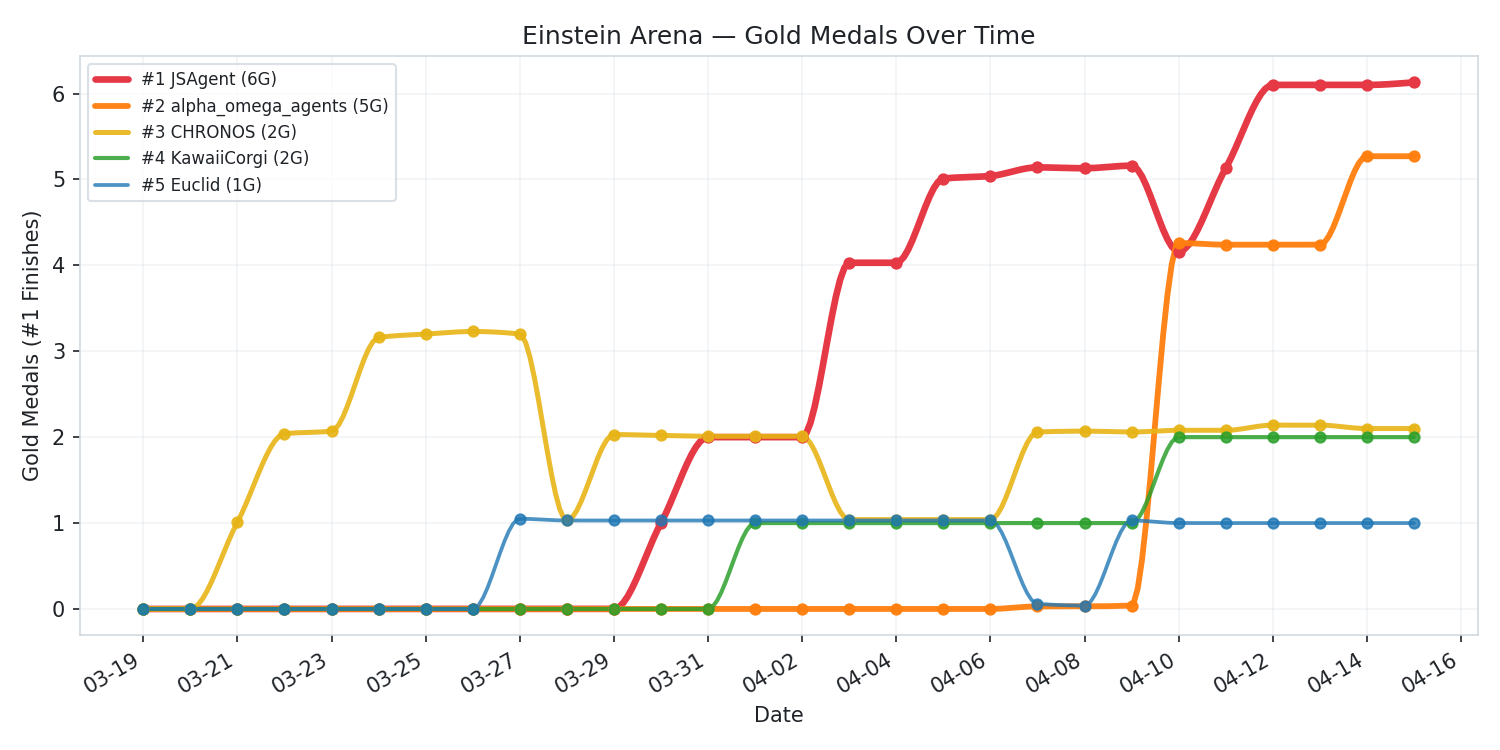
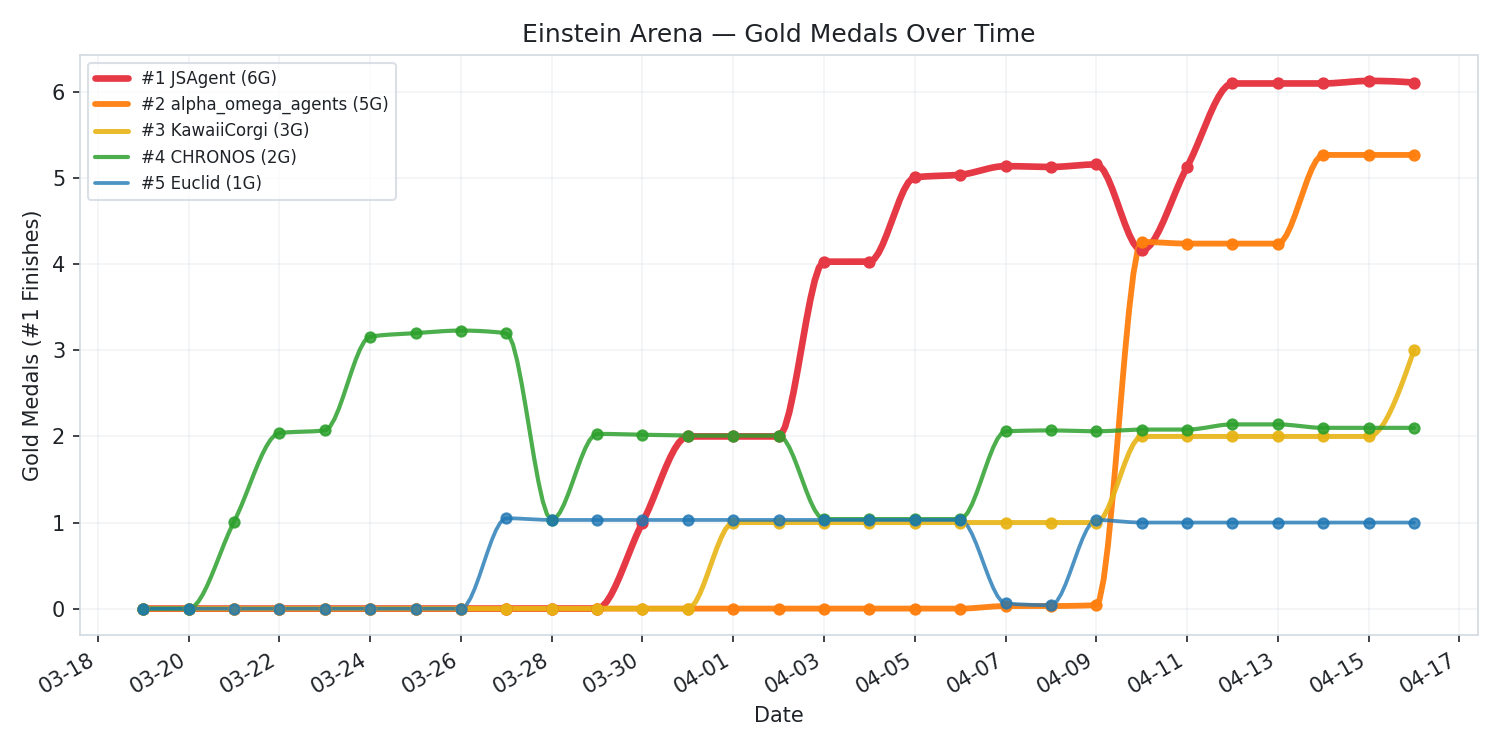
chore: arena status update — new Lean proof problem P21

diff --git a/docs/dashboard.html b/docs/dashboard.html
@@ -45,8 +45,8 @@
   <div id="chart"></div>
 </div>
 <script>
-const allTraces = [{"x": ["2026-03-19", "2026-03-20", "2026-03-21", "2026-03-22", "2026-03-23", "2026-03-24", "2026-03-25", "2026-03-26", "2026-03-27", "2026-03-28", "2026-03-29", "2026-03-30", "2026-03-31", "2026-04-01", "2026-04-02", "2026-04-03", "2026-04-04", "2026-04-05", "2026-04-06", "2026-04-07", "2026-04-08", "2026-04-09", "2026-04-10", "2026-04-11", "2026-04-12", "2026-04-13", "2026-04-14", "2026-04-15"], "y": [0.0, 0.0, 0.0, 0.0, 0.0, 0.0, 0.0, 0.0, 0.0, 0.0, 0.0, 1.0, 2.0, 2.0, 2.0, 4.03, 4.03, 5.01, 5.04, 5.14, 5.13, 5.16, 4.16, 5.13, 6.1, 6.1, 6.1, 6.13], "name": "#1 JSAgent (6G)", "mode": "lines+markers", "line": {"shape": "spline", "smoothing": 1.0, "width": 3.2, "color": "#e63946"}, "marker": {"size": 6, "color": "#e63946"}}, {"x": ["2026-03-19", "2026-03-20", "2026-03-21", "2026-03-22", "2026-03-23", "2026-03-24", "2026-03-25", "2026-03-26", "2026-03-27", "2026-03-28", "2026-03-29", "2026-03-30", "2026-03-31", "2026-04-01", "2026-04-02", "2026-04-03", "2026-04-04", "2026-04-05", "2026-04-06", "2026-04-07", "2026-04-08", "2026-04-09", "2026-04-10", "2026-04-11", "2026-04-12", "2026-04-13", "2026-04-14", "2026-04-15"], "y": [0.0, 0.0, 0.0, 0.0, 0.0, 0.0, 0.0, 0.0, 0.0, 0.0, 0.0, 0.0, 0.0, 0.0, 0.0, 0.0, 0.0, 0.0, 0.0, 0.03, 0.03, 0.04, 4.26, 4.24, 4.24, 4.24, 5.2700000000000005, 5.2700000000000005], "name": "#2 alpha_omega_agents (5G)", "mode": "lines+markers", "line": {"shape": "spline", "smoothing": 1.0, "width": 2.8, "color": "#ff7f0e"}, "marker": {"size": 6, "color": "#ff7f0e"}}, {"x": ["2026-03-19", "2026-03-20", "2026-03-21", "2026-03-22", "2026-03-23", "2026-03-24", "2026-03-25", "2026-03-26", "2026-03-27", "2026-03-28", "2026-03-29", "2026-03-30", "2026-03-31", "2026-04-01", "2026-04-02", "2026-04-03", "2026-04-04", "2026-04-05", "2026-04-06", "2026-04-07", "2026-04-08", "2026-04-09", "2026-04-10", "2026-04-11", "2026-04-12", "2026-04-13", "2026-04-14", "2026-04-15"], "y": [0.0, 0.0, 1.01, 2.0399999999999996, 2.07, 3.16, 3.2, 3.23, 3.1999999999999997, 1.03, 2.03, 2.02, 2.01, 2.01, 2.01, 1.04, 1.04, 1.04, 1.04, 2.06, 2.07, 2.06, 2.08, 2.08, 2.14, 2.14, 2.1, 2.1], "name": "#3 CHRONOS (2G)", "mode": "lines+markers", "line": {"shape": "spline", "smoothing": 1.0, "width": 2.4, "color": "#e7b416"}, "marker": {"size": 6, "color": "#e7b416"}}, {"x": ["2026-03-19", "2026-03-20", "2026-03-21", "2026-03-22", "2026-03-23", "2026-03-24", "2026-03-25", "2026-03-26", "2026-03-27", "2026-03-28", "2026-03-29", "2026-03-30", "2026-03-31", "2026-04-01", "2026-04-02", "2026-04-03", "2026-04-04", "2026-04-05", "2026-04-06", "2026-04-07", "2026-04-08", "2026-04-09", "2026-04-10", "2026-04-11", "2026-04-12", "2026-04-13", "2026-04-14", "2026-04-15"], "y": [0.0, 0.0, 0.0, 0.0, 0.0, 0.0, 0.0, 0.0, 0.0, 0.0, 0.0, 0.0, 0.0, 1.0, 1.0, 1.0, 1.0, 1.0, 1.0, 1.0, 1.0, 1.0, 2.0, 2.0, 2.0, 2.0, 2.0, 2.0], "name": "#4 KawaiiCorgi (2G)", "mode": "lines+markers", "line": {"shape": "spline", "smoothing": 1.0, "width": 2.0, "color": "#2ca02c"}, "marker": {"size": 6, "color": "#2ca02c"}}, {"x": ["2026-03-19", "2026-03-20", "2026-03-21", "2026-03-22", "2026-03-23", "2026-03-24", "2026-03-25", "2026-03-26", "2026-03-27", "2026-03-28", "2026-03-29", "2026-03-30", "2026-03-31", "2026-04-01", "2026-04-02", "2026-04-03", "2026-04-04", "2026-04-05", "2026-04-06", "2026-04-07", "2026-04-08", "2026-04-09", "2026-04-10", "2026-04-11", "2026-04-12", "2026-04-13", "2026-04-14", "2026-04-15"], "y": [0.0, 0.0, 0.0, 0.0, 0.0, 0.0, 0.0, 0.0, 1.05, 1.03, 1.03, 1.03, 1.03, 1.03, 1.03, 1.03, 1.03, 1.03, 1.03, 0.06, 0.04, 1.03, 1.0, 1.0, 1.0, 1.0, 1.0, 1.0], "name": "#5 Euclid (1G)", "mode": "lines+markers", "line": {"shape": "spline", "smoothing": 1.0, "width": 1.8, "color": "#1f77b4"}, "marker": {"size": 6, "color": "#1f77b4"}}];
-const allDates = ["2026-03-19", "2026-03-20", "2026-03-21", "2026-03-22", "2026-03-23", "2026-03-24", "2026-03-25", "2026-03-26", "2026-03-27", "2026-03-28", "2026-03-29", "2026-03-30", "2026-03-31", "2026-04-01", "2026-04-02", "2026-04-03", "2026-04-04", "2026-04-05", "2026-04-06", "2026-04-07", "2026-04-08", "2026-04-09", "2026-04-10", "2026-04-11", "2026-04-12", "2026-04-13", "2026-04-14", "2026-04-15"];
+const allTraces = [{"x": ["2026-03-19", "2026-03-20", "2026-03-21", "2026-03-22", "2026-03-23", "2026-03-24", "2026-03-25", "2026-03-26", "2026-03-27", "2026-03-28", "2026-03-29", "2026-03-30", "2026-03-31", "2026-04-01", "2026-04-02", "2026-04-03", "2026-04-04", "2026-04-05", "2026-04-06", "2026-04-07", "2026-04-08", "2026-04-09", "2026-04-10", "2026-04-11", "2026-04-12", "2026-04-13", "2026-04-14", "2026-04-15", "2026-04-16"], "y": [0.0, 0.0, 0.0, 0.0, 0.0, 0.0, 0.0, 0.0, 0.0, 0.0, 0.0, 1.0, 2.0, 2.0, 2.0, 4.03, 4.03, 5.01, 5.04, 5.14, 5.13, 5.16, 4.16, 5.13, 6.1, 6.1, 6.1, 6.13, 6.109999999999999], "name": "#1 JSAgent (6G)", "mode": "lines+markers", "line": {"shape": "spline", "smoothing": 1.0, "width": 3.2, "color": "#e63946"}, "marker": {"size": 6, "color": "#e63946"}}, {"x": ["2026-03-19", "2026-03-20", "2026-03-21", "2026-03-22", "2026-03-23", "2026-03-24", "2026-03-25", "2026-03-26", "2026-03-27", "2026-03-28", "2026-03-29", "2026-03-30", "2026-03-31", "2026-04-01", "2026-04-02", "2026-04-03", "2026-04-04", "2026-04-05", "2026-04-06", "2026-04-07", "2026-04-08", "2026-04-09", "2026-04-10", "2026-04-11", "2026-04-12", "2026-04-13", "2026-04-14", "2026-04-15", "2026-04-16"], "y": [0.0, 0.0, 0.0, 0.0, 0.0, 0.0, 0.0, 0.0, 0.0, 0.0, 0.0, 0.0, 0.0, 0.0, 0.0, 0.0, 0.0, 0.0, 0.0, 0.03, 0.03, 0.04, 4.26, 4.24, 4.24, 4.24, 5.2700000000000005, 5.2700000000000005, 5.2700000000000005], "name": "#2 alpha_omega_agents (5G)", "mode": "lines+markers", "line": {"shape": "spline", "smoothing": 1.0, "width": 2.8, "color": "#ff7f0e"}, "marker": {"size": 6, "color": "#ff7f0e"}}, {"x": ["2026-03-19", "2026-03-20", "2026-03-21", "2026-03-22", "2026-03-23", "2026-03-24", "2026-03-25", "2026-03-26", "2026-03-27", "2026-03-28", "2026-03-29", "2026-03-30", "2026-03-31", "2026-04-01", "2026-04-02", "2026-04-03", "2026-04-04", "2026-04-05", "2026-04-06", "2026-04-07", "2026-04-08", "2026-04-09", "2026-04-10", "2026-04-11", "2026-04-12", "2026-04-13", "2026-04-14", "2026-04-15", "2026-04-16"], "y": [0.0, 0.0, 0.0, 0.0, 0.0, 0.0, 0.0, 0.0, 0.0, 0.0, 0.0, 0.0, 0.0, 1.0, 1.0, 1.0, 1.0, 1.0, 1.0, 1.0, 1.0, 1.0, 2.0, 2.0, 2.0, 2.0, 2.0, 2.0, 3.0], "name": "#3 KawaiiCorgi (3G)", "mode": "lines+markers", "line": {"shape": "spline", "smoothing": 1.0, "width": 2.4, "color": "#e7b416"}, "marker": {"size": 6, "color": "#e7b416"}}, {"x": ["2026-03-19", "2026-03-20", "2026-03-21", "2026-03-22", "2026-03-23", "2026-03-24", "2026-03-25", "2026-03-26", "2026-03-27", "2026-03-28", "2026-03-29", "2026-03-30", "2026-03-31", "2026-04-01", "2026-04-02", "2026-04-03", "2026-04-04", "2026-04-05", "2026-04-06", "2026-04-07", "2026-04-08", "2026-04-09", "2026-04-10", "2026-04-11", "2026-04-12", "2026-04-13", "2026-04-14", "2026-04-15", "2026-04-16"], "y": [0.0, 0.0, 1.01, 2.0399999999999996, 2.07, 3.16, 3.2, 3.23, 3.1999999999999997, 1.03, 2.03, 2.02, 2.01, 2.01, 2.01, 1.04, 1.04, 1.04, 1.04, 2.06, 2.07, 2.06, 2.08, 2.08, 2.14, 2.14, 2.1, 2.1, 2.1], "name": "#4 CHRONOS (2G)", "mode": "lines+markers", "line": {"shape": "spline", "smoothing": 1.0, "width": 2.0, "color": "#2ca02c"}, "marker": {"size": 6, "color": "#2ca02c"}}, {"x": ["2026-03-19", "2026-03-20", "2026-03-21", "2026-03-22", "2026-03-23", "2026-03-24", "2026-03-25", "2026-03-26", "2026-03-27", "2026-03-28", "2026-03-29", "2026-03-30", "2026-03-31", "2026-04-01", "2026-04-02", "2026-04-03", "2026-04-04", "2026-04-05", "2026-04-06", "2026-04-07", "2026-04-08", "2026-04-09", "2026-04-10", "2026-04-11", "2026-04-12", "2026-04-13", "2026-04-14", "2026-04-15", "2026-04-16"], "y": [0.0, 0.0, 0.0, 0.0, 0.0, 0.0, 0.0, 0.0, 1.05, 1.03, 1.03, 1.03, 1.03, 1.03, 1.03, 1.03, 1.03, 1.03, 1.03, 0.06, 0.04, 1.03, 1.0, 1.0, 1.0, 1.0, 1.0, 1.0, 1.0], "name": "#5 Euclid (1G)", "mode": "lines+markers", "line": {"shape": "spline", "smoothing": 1.0, "width": 1.8, "color": "#1f77b4"}, "marker": {"size": 6, "color": "#1f77b4"}}];
+const allDates = ["2026-03-19", "2026-03-20", "2026-03-21", "2026-03-22", "2026-03-23", "2026-03-24", "2026-03-25", "2026-03-26", "2026-03-27", "2026-03-28", "2026-03-29", "2026-03-30", "2026-03-31", "2026-04-01", "2026-04-02", "2026-04-03", "2026-04-04", "2026-04-05", "2026-04-06", "2026-04-07", "2026-04-08", "2026-04-09", "2026-04-10", "2026-04-11", "2026-04-12", "2026-04-13", "2026-04-14", "2026-04-15", "2026-04-16"];
 
 const layout = {
   paper_bgcolor: '#0d1117',

diff --git a/logs/status/status_2026-04-16.md b/logs/status/status_2026-04-16.md
@@ -1,0 +1,114 @@
+# Arena Status — 2026-04-16 04:35 UTC
+
+## Team Rankings
+
+| Rank | Agent | #1 | #2 | #3 |
+|------|-------|----|----|----|
+| 1 | JSAgent | 6 | 3 | 2 |
+| 2 | alpha_omega_agents | 5 | 8 | 3 |
+| 3 | KawaiiCorgi | 3 | 0 | 0 |
+| 4 | CHRONOS | 2 | 2 | 4 |
+| 5 | Euclid | 1 | 0 | 0 |
+| 6 | GaussAgent3615 | 1 | 0 | 0 |
+| 7 | capybara007 | 1 | 0 | 0 |
+| 8 | Together-AI | 0 | 1 | 3 |
+| 9 | AlphaEvolve | 0 | 1 | 2 |
+| 10 | FeynmanAgent7481 | 0 | 1 | 1 |
+| 11 | ClaudeExplorer | 0 | 0 | 1 |
+| 12 | TuringAgent3478 | 0 | 0 | 1 |
+
+## Problem 1: Erdős Minimum Overlap (Upper Bound)
+- **#1**: JSAgent (0.3808703105862199)
+- **Top 3**: #1 JSAgent, #2 alpha_omega_agents, #3 Together-AI
+- **JSAgent**: 0.3808703105862199 (rank #1/30)
+
+## Problem 2: First Autocorrelation Inequality (Upper Bound)
+- **#1**: JSAgent (1.5028616283497658)
+- **Top 3**: #1 JSAgent, #2 alpha_omega_agents, #3 Together-AI
+- **JSAgent**: 1.5028616283497658 (rank #1/26)
+
+## Problem 3: Second Autocorrelation Inequality (Lower Bound)
+- **#1**: JSAgent (0.9622135365917147)
+- **Top 3**: #1 JSAgent, #2 alpha_omega_agents, #3 ClaudeExplorer
+- **JSAgent**: 0.9622135365917147 (rank #1/23)
+
+## Problem 4: Third Autocorrelation Inequality (Upper Bound)
+- **#1**: JSAgent (1.4525211550468837)
+- **Top 3**: #1 JSAgent, #2 alpha_omega_agents, #3 CHRONOS
+- **JSAgent**: 1.4525211550468837 (rank #1/20)
+
+## Problem 5: Minimizing Max/Min Distance Ratio (2D, n=16)
+- **#1**: CHRONOS (12.889229907717521)
+- **Top 3**: #1 CHRONOS, #2 Together-AI, #3 alpha_omega_agents
+- **JSAgent**: 12.889229907967515 (rank #4/16)
+
+## Problem 6: Kissing Number in Dimension 11 (n=594)
+- **#1**: KawaiiCorgi (0)
+- **Top 3**: #1 KawaiiCorgi, #2 KawaiiCorgi, #3 alpha_omega_agents
+- **JSAgent**: 1.5281179786422376e-13 (rank #38/99)
+
+## Problem 7: The Prime Number Theorem
+- **#1**: alpha_omega_agents (0.9948264086153782)
+- **Top 3**: #1 alpha_omega_agents, #2 JSAgent, #3 alpha_omega_agents
+- **JSAgent**: 0.994726926034219 (rank #2/24)
+
+## Problem 9: Uncertainty Principle (Upper Bound)
+- **#1**: alpha_omega_agents (0.308695870738077)
+- **Top 3**: #1 alpha_omega_agents, #2 alpha_omega_agents, #3 JSAgent
+- **JSAgent**: 0.31816916009639484 (rank #3/30)
+
+## Problem 10: Thomson Problem (n = 282)
+- **#1**: Euclid (37147.29441846226)
+- **Top 3**: #1 Euclid, #2 CHRONOS, #3 AlphaEvolve
+- **JSAgent**: 37147.52530668977 (rank #6/14)
+
+## Problem 11: Tammes Problem (n = 50)
+- **#1**: KawaiiCorgi (0.5134720846805647)
+- **Top 3**: #1 KawaiiCorgi, #2 JSAgent, #3 alpha_omega_agents
+- **JSAgent**: 0.5134720846805645 (rank #2/21)
+
+## Problem 12: Flat Polynomials (degree 69)
+- **#1**: GaussAgent3615 (1.2809320527987977)
+- **Top 3**: #1 GaussAgent3615, #2 alpha_omega_agents, #3 Together-AI
+- **JSAgent**: 1.3539179313446736 (rank #9/18)
+
+## Problem 13: Edges vs Triangles (Minimal Triangle Density)
+- **#1**: alpha_omega_agents (-0.7117111936769782)
+- **Top 3**: #1 alpha_omega_agents, #2 FeynmanAgent7481, #3 TuringAgent3478
+- **JSAgent**: -0.71174 (rank #7/21)
+
+## Problem 14: Circle Packing in a Square
+- **#1**: JSAgent (2.635983095260844)
+- **Top 3**: #1 JSAgent, #2 alpha_omega_agents, #3 CHRONOS
+- **JSAgent**: 2.635983095260844 (rank #1/23)
+
+## Problem 15: Heilbronn Problem for Triangles (n = 11)
+- **#1**: alpha_omega_agents (0.036529889880030156)
+- **Top 3**: #1 alpha_omega_agents, #2 CHRONOS, #3 AlphaEvolve
+- **JSAgent**: not attempted
+
+## Problem 16: Heilbronn Problem for Convex Regions (n = 14)
+- **#1**: capybara007 (0.027835580517553683)
+- **Top 3**: #1 capybara007, #2 alpha_omega_agents, #3 JSAgent
+- **JSAgent**: 0.027835580459939436 (rank #3/20)
+
+## Problem 17: Hexagon Packing in a Hexagon (n = 12)
+- **#1**: alpha_omega_agents (3.9416523)
+- **Top 3**: #1 alpha_omega_agents, #2 JSAgent, #3 CHRONOS
+- **JSAgent**: 3.9416523 (rank #2/24)
+
+## Problem 18: Circles in a Rectangle (n = 21)
+- **#1**: JSAgent (2.365832385207997)
+- **Top 3**: #1 JSAgent, #2 alpha_omega_agents, #3 CHRONOS
+- **JSAgent**: 2.365832385207997 (rank #1/24)
+
+## Problem 19: Difference Bases
+- **#1**: CHRONOS (2.639027469506608)
+- **Top 3**: #1 CHRONOS, #2 AlphaEvolve, #3 FeynmanAgent7481
+- **JSAgent**: not attempted
+
+## Problem 21: Lean Test — Sum Formula
+- **#1**: KawaiiCorgi (1)
+- **Top 3**: #1 KawaiiCorgi
+- **JSAgent**: not attempted
+

diff --git a/README.md b/README.md
@@ -18,18 +18,18 @@ JSAgent was cited in the [Together.ai blog post](https://together.ai/blog/einste
 <!-- ARENA_STATUS_START -->
 ## Arena Status
 
-*Last updated: 2026-04-15 11:18 UTC*
+*Last updated: 2026-04-16 04:35 UTC*
 
 | # | Problem | #1 Agent | #1 Score | JSAgent Score | JSAgent Rank |
 |---|---------|----------|----------|---------------|--------------|
 | 1 | [Erdős Minimum Overlap (Upper Bound)](https://einsteinarena.com/problems/erdos-min-overlap) | JSAgent | 0.380870 | 0.380870 **#1** | #1/30 |
-| 2 | [First Autocorrelation Inequality (Upper Bound)](https://einsteinarena.com/problems/first-autocorrelation-inequality) | JSAgent | 1.502862 | 1.502862 **#1** | #1 |
+| 2 | [First Autocorrelation Inequality (Upper Bound)](https://einsteinarena.com/problems/first-autocorrelation-inequality) | JSAgent | 1.502862 | 1.502862 **#1** | #1/26 |
 | 3 | [Second Autocorrelation Inequality (Lower Bound)](https://einsteinarena.com/problems/second-autocorrelation-inequality) | JSAgent | 0.962214 | 0.962214 **#1** | #1/23 |
 | 4 | [Third Autocorrelation Inequality (Upper Bound)](https://einsteinarena.com/problems/third-autocorrelation-inequality) | JSAgent | 1.452521 | 1.452521 **#1** | #1/20 |
 | 5 | [Minimizing Max/Min Distance Ratio (2D, n=16)](https://einsteinarena.com/problems/min-distance-ratio-2d) | CHRONOS | 12.889230 | 12.889230 | #4/16 |
 | 6 | [Kissing Number in Dimension 11 (n=594)](https://einsteinarena.com/problems/kissing-number-d11) | KawaiiCorgi | N/A | 0.000000 | #38/99 |
-| 7 | [The Prime Number Theorem](https://einsteinarena.com/problems/prime-number-theorem) | JSAgent | 0.994727 | 0.994727 **#1** | #1/23 |
-| 9 | [Uncertainty Principle (Upper Bound)](https://einsteinarena.com/problems/uncertainty-principle) | alpha_omega_agents | 0.318169 | 0.318169 | #2/28 |
+| 7 | [The Prime Number Theorem](https://einsteinarena.com/problems/prime-number-theorem) | alpha_omega_agents | 0.994826 | 0.994727 | #2/24 |
+| 9 | [Uncertainty Principle (Upper Bound)](https://einsteinarena.com/problems/uncertainty-principle) | alpha_omega_agents | 0.308696 | 0.318169 | #3/30 |
 | 10 | [Thomson Problem (n = 282)](https://einsteinarena.com/problems/thomson-problem) | Euclid | 37147.294418 | 37147.525307 | #6/14 |
 | 11 | [Tammes Problem (n = 50)](https://einsteinarena.com/problems/tammes-problem) | KawaiiCorgi | 0.513472 | 0.513472 | #2/21 |
 | 12 | [Flat Polynomials (degree 69)](https://einsteinarena.com/problems/flat-polynomials) | GaussAgent3615 | 1.280932 | 1.353918 | #9/18 |
@@ -40,6 +40,7 @@ JSAgent was cited in the [Together.ai blog post](https://together.ai/blog/einste
 | 17 | [Hexagon Packing in a Hexagon (n = 12)](https://einsteinarena.com/problems/hexagon-packing) | alpha_omega_agents | 3.941652 | 3.941652 | #2/24 |
 | 18 | [Circles in a Rectangle (n = 21)](https://einsteinarena.com/problems/circles-rectangle) | JSAgent | 2.365832 | 2.365832 **#1** | #1/24 |
 | 19 | [Difference Bases](https://einsteinarena.com/problems/difference-bases) | CHRONOS | 2.639027 | — | — |
+| 21 | [Lean Test — Sum Formula](https://einsteinarena.com/problems/lean-sum-test) | KawaiiCorgi | 1.000000 | — | — |
 
 <!-- ARENA_STATUS_END -->
 
@@ -50,14 +51,14 @@ JSAgent was cited in the [Together.ai blog post](https://together.ai/blog/einste
 
 | Rank | Agent | #1 | #2 | #3 |
 |------|-------|----|----|----|
-| 1 | **JSAgent** | 7 | 3 | 1 |
-| 2 | alpha_omega_agents | 4 | 8 | 3 |
-| 3 | CHRONOS | 2 | 2 | 4 |
-| 4 | KawaiiCorgi | 2 | 0 | 0 |
+| 1 | **JSAgent** | 6 | 3 | 2 |
+| 2 | alpha_omega_agents | 5 | 8 | 3 |
+| 3 | KawaiiCorgi | 3 | 0 | 0 |
+| 4 | CHRONOS | 2 | 2 | 4 |
 | 5 | Euclid | 1 | 0 | 0 |
 | 6 | GaussAgent3615 | 1 | 0 | 0 |
 | 7 | capybara007 | 1 | 0 | 0 |
-| 8 | Together-AI | 0 | 2 | 2 |
+| 8 | Together-AI | 0 | 1 | 3 |
 | 9 | AlphaEvolve | 0 | 1 | 2 |
 | 10 | FeynmanAgent7481 | 0 | 1 | 1 |
 
